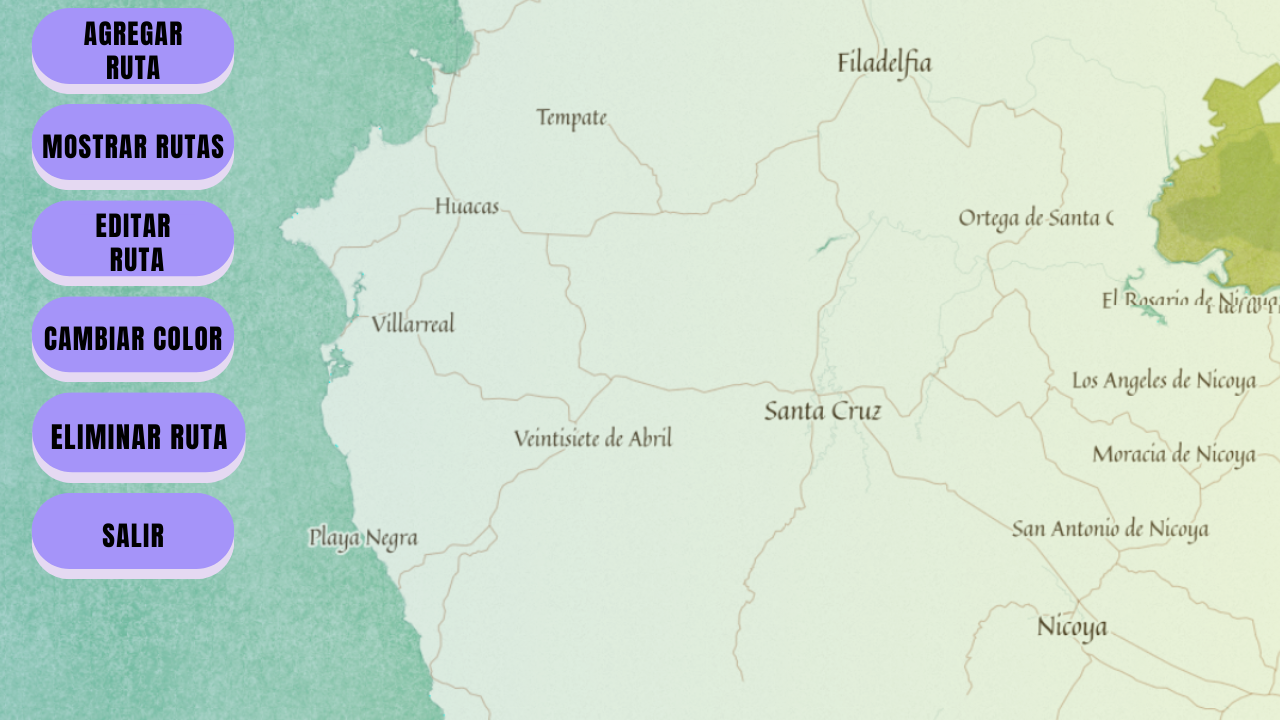
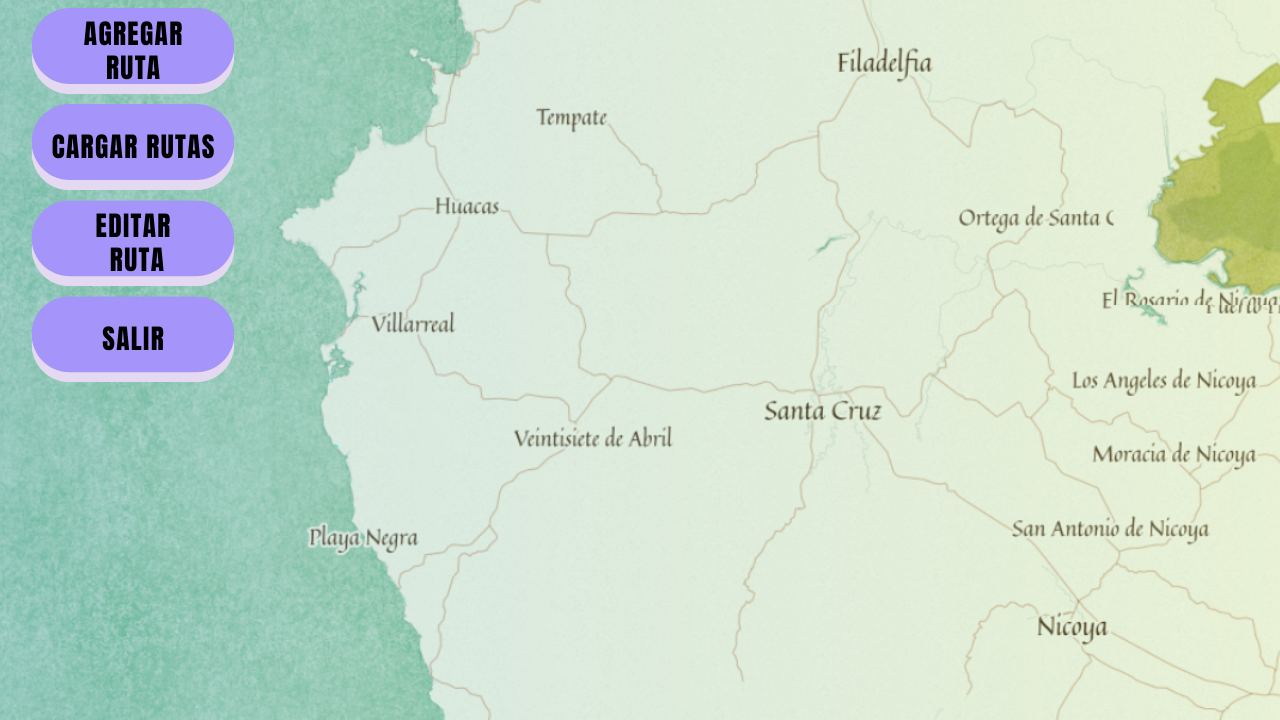
Feat:files were added

Changed region(s): [[0.0, 0.5194, 0.2188, 0.825], [0.0312, 0.1833, 0.1875, 0.2444], [0.0312, 0.4278, 0.1875, 0.4889]]

diff --git a/RutasTuristicas/TouristRouteList.cpp b/RutasTuristicas/TouristRouteList.cpp
@@ -14,6 +14,89 @@ void TouristRouteList::addRoute(string& routeName)
 	}
 }
 
+void TouristRouteList::deleteRoute(const string& routeName)
+{
+	TouristRouteNode* current = head;
+	while (current != nullptr) {
+		if (current->routeName == routeName) {
+			if (current->previuos != nullptr) {
+				current->previuos->next = current->next;
+			}
+			else {
+				head = current->next;
+			}
+			if (current->next != nullptr) {
+				current->next->previuos = current->previuos;
+			}
+			else {
+				tail = current->previuos;
+			}
+			current->routePointsTourist.clearPoints();
+
+			delete current;
+			return;
+		}
+		current = current->next;
+	}
+}
+
+void TouristRouteList::saveRoutesToFiles(const string& directory)
+{
+	TouristRouteNode* currentRoute = head;
+	int routeCount = 1;
+
+	while (currentRoute != nullptr) {
+		string filename = directory + "/Route" + to_string(routeCount) + ".txt";
+		ofstream outFile(filename);
+
+		if (outFile.is_open()) {
+			outFile << currentRoute->routeName << endl;
+			RouteNode* currentPoint = currentRoute->routePointsTourist.head;
+			while (currentPoint != nullptr) {
+				outFile << currentPoint->pointName << " "
+					<< currentPoint->positionX << " "
+					<< currentPoint->positionY << "\n";
+				currentPoint = currentPoint->next;
+			}
+			outFile.close(); 
+			routeCount++;
+		}
+		else {
+			
+			cerr << "Error al abrir el archivo: " << filename << endl;
+		}
+		currentRoute = currentRoute->next;
+	}
+}
+
+void TouristRouteList::loadRoutesFromFiles(const string& directory)
+{
+	int routeCount = 1;
+	while (true) {
+
+		string fileName = directory + "/Route" + to_string(routeCount) + ".txt";
+		ifstream inFile(fileName);
+
+		if (!inFile.is_open()) {
+			break;
+		}
+
+		string routeName;
+		getline(inFile, routeName);
+
+		TouristRouteNode* newRoute = new TouristRouteNode(routeName);
+		addRoute(routeName);
+
+		string pointName;
+		int x, y;
+		while (inFile >> pointName >> x >> y) {
+			newRoute->addPoint(pointName, x, y);
+		}
+		inFile.close();
+		routeCount++;
+	}
+}
+
 TouristRouteList::~TouristRouteList()
 {
 	TouristRouteNode* current = head;

diff --git a/RutasTuristicas/GraphicsManager.h b/RutasTuristicas/GraphicsManager.h
@@ -14,14 +14,19 @@ private:
     bool enteringRouteName;  
     bool enteringPointName;
     bool enteringPoints; 
-    bool  displayRouteSelection;
+    bool editingRouteName;
+    bool routeFoundOptions;
+    bool deletePoint;
+    bool deleteRoute;
     string routeNameInput;
     string pointNameInput;
+    string editingRouteNameInput;
+    string optionInput;
     TouristRouteList* touristRoute;
     RouteList* routePoints;
     FloatRect menuButton;
     FloatRect addRouteButton;
-    FloatRect showRoutesButton;
+    FloatRect loadRouteButton; 
     FloatRect editRouteButton;
     FloatRect changeColorButton;
     FloatRect deleteRouteButton;
@@ -44,15 +49,16 @@ private:
     void drawlines(RenderWindow& window);
     void drawCircule(RenderWindow& window);
     void drawColorPalette(RenderWindow& window); 
-    void drawTextRouteForEdit(RenderWindow& window); 
+    void drawTextInputRouteToEdit(RenderWindow& window);
+    void drawRouteToEdit(RenderWindow& window);
+    void editoptions(RenderWindow& window);
+    void deletePointFromRoute(const string& pointName);
+    void deleteRouteFromList(const string& routeName);
+    void saveRoutes();
+    void loadRoutes();
 public:
     GraphicsManager();
     void loadImageMenu();
     ~GraphicsManager();
-  
-   // void drawCircule(RenderWindow& window);
-   // void drawColorPalette(RenderWindow& window);
-   // void drawTextRouteForEdit(RenderWindow& window);*/
-   // ~GraphicsManager();
 };
 

diff --git a/RutasTuristicas/RouteList.cpp b/RutasTuristicas/RouteList.cpp
@@ -1,4 +1,5 @@
 #include "RouteList.h"
+#include "TouristRouteList.h"
 
 void RouteList::addPoint(string& pointName, int coordinateX, int coordinateY)
 {
@@ -20,21 +21,47 @@ void RouteList::clearPoints()
 	RouteNode* nextNode = nullptr;
 
 	while (current != nullptr) {
-		nextNode = current->next;  
-		delete current;           
-		current = nextNode;        
+		nextNode = current->next;
+		delete current;
+		current = nextNode;
 	}
 	head = nullptr;
 }
 
+void RouteList::deletePoint(const string& pointName)
+{
+	RouteNode* current = head;
+	while (current != nullptr) {
+		if (current->pointName == pointName) {
+
+			if (current->previuos != nullptr) {
+				current->previuos->next = current->next;
+			}
+			else {
+				head = current->next;
+			}
+			if (current->next != nullptr) {
+				current->next->previuos = current->previuos;
+			}
+			else {
+				tail = current->previuos;
+			}
+
+			delete current;
+			return;
+		}
+		current = current->next;
+	}
+}
+
 RouteList::~RouteList()
 {
-	RouteNode* current = head; 
-	RouteNode* nextNode = nullptr; 
+	RouteNode* current = head;
+	RouteNode* nextNode = nullptr;
 
 	while (current != nullptr) {
-		nextNode = current->next;  
-		delete current;             
-		current = nextNode;         
+		nextNode = current->next;
+		delete current;
+		current = nextNode;
 	}
 }

diff --git a/RutasTuristicas/TouristRouteList.h b/RutasTuristicas/TouristRouteList.h
@@ -3,6 +3,7 @@
 #include <iostream>
 #include<string>
 #include "RouteList.h"
+#include "fstream"
 using namespace std;
 using namespace sf;
 
@@ -26,6 +27,9 @@ public:
 	TouristRouteNode* tail;
 	TouristRouteList():head(nullptr),tail(nullptr){}
 	void addRoute(string& routeName);
+	void deleteRoute(const string& routeName);
+	void saveRoutesToFiles(const string& directory);
+	void loadRoutesFromFiles(const string& directory);
 	~TouristRouteList();
 };
 

diff --git a/RutasTuristicas/RouteList.h b/RutasTuristicas/RouteList.h
@@ -2,6 +2,7 @@
 #include <SFML/Graphics.hpp>
 #include <iostream>
 #include<string>
+#include <fstream>
 using namespace std;
 using namespace sf;
 
@@ -24,6 +25,7 @@ public:
 	RouteList():head(nullptr),tail(nullptr){}
 	void addPoint(string& pointName,int coordinateX,int coordinateY);
 	void clearPoints();
+	void deletePoint(const string& pointName);
 	~RouteList();
 };
 
